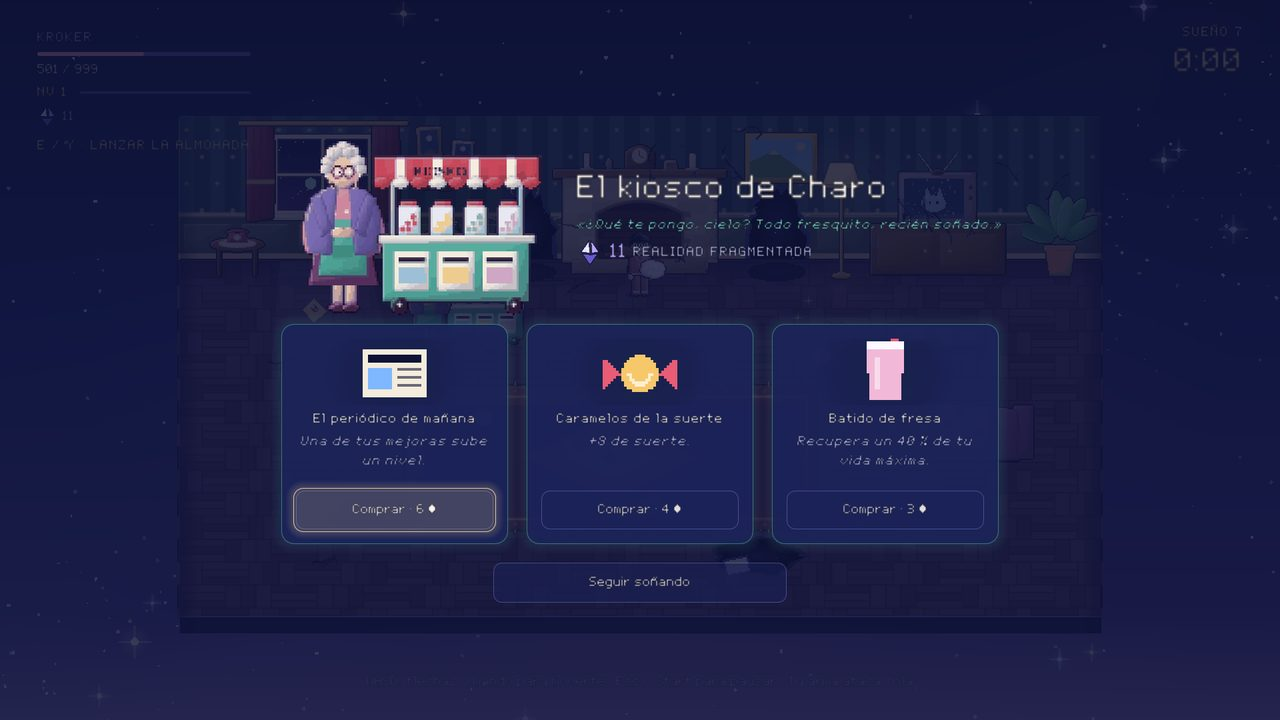
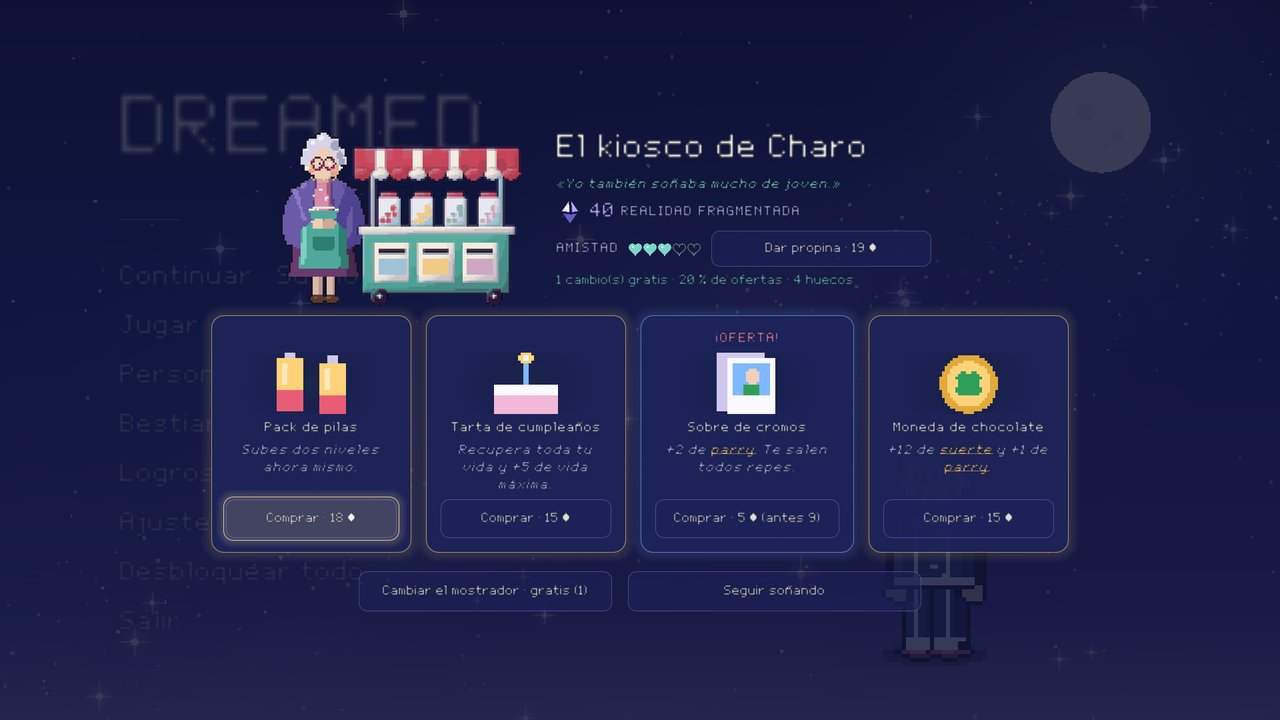
README actualizado: ocho pijamas (pelota y portátil), Acto 3 completo con el Ovni, Magnus, kiosco por actos, parry, eventos, demo y capturas nuevas
Claude-Session: https://claude.ai/code/session_01GdGrTqZ9MwK91drfN3VgwU

diff --git a/README.md b/README.md
@@ -9,7 +9,7 @@ Kroker es un niño con gafas y pelo negro que se queda dormido... y cada oleada 
 
 - **Motor:** Godot 4.7, probado en **Godot 4.7.2**.
 - **Idiomas:** español e inglés, que se cambian en Ajustes.
-- **Controles:** teclado, ratón y mando.
+- **Controles:** teclado, ratón y mando. Los textos de controles cambian solos según uses teclado o mando.
 - **Arte y sonido:** todo hecho con código, desde los sprites y la fuente hasta la música y los efectos (ver [Herramientas](#herramientas)).
 
 ---
@@ -29,8 +29,10 @@ Kroker es un niño con gafas y pelo negro que se queda dormido... y cada oleada 
 |---|---|---|
 | Moverse | WASD o flechas | Stick izquierdo o cruceta |
 | Modo especial (almohada de Svinho) | E | Y |
-| Avanzar diálogos | Intro, Espacio o clic | A |
+| Aceptar / avanzar diálogos | Intro, Espacio o clic | A |
+| Volver | Esc | B |
 | Pausa (con resumen de estadísticas y mejoras) | Esc | Start |
+| Ver más en una ficha que no cabe | Rueda del ratón | Stick derecho |
 
 El mando vibra al recibir golpes; se puede desactivar en *Ajustes → Accesibilidad*.
 
@@ -38,20 +40,32 @@ El mando vibra al recibir golpes; se puede desactivar en *Ajustes → Accesibili
 
 ## Los pijamas
 
-Siempre es Kroker, pero vestido distinto, y cada pijama trae su arma. Se empieza con cuatro; la pistola de dedos se desbloquea al llegar por primera vez al Acto 2 y el oso de peluche al llegar al Acto 3. Los bloqueados salen en silueta en la selección.
+Siempre es Kroker, pero vestido distinto, y cada pijama trae su arma. Se empieza con cuatro y otros cuatro se desbloquean jugando. En la selección salen en páginas de cuatro, con una flecha a cada lado; los bloqueados se ven en silueta, con cómo se consiguen. Cada carta tiene una ficha con sus valoraciones y todas sus bonificaciones de serie; si no caben, la ficha se desplaza (con la rueda o, con mando, sola y con el stick derecho).
 
 ![Selección de personaje](docs/screenshots/seleccion.jpg)
 
-| Pijama | Arma | Cómo ataca | Bonificación de serie |
-|---|---|---|---|
-| **El Bateador** | Bate | Golpe cuerpo a cuerpo al enemigo más cercano | +20 % de ataque y 3 de regeneración |
-| **El Guardián** | Escudo-almohada | Poco daño, pero empuja mucho en cono | +4 de defensa, +5 de vida máxima, 5 de regeneración y algo más lento |
-| **El Cuentacuentos** | Libro | Hace caer de 1 a 3 rayos del cielo; cada uno golpea a un enemigo | −15 de suerte, −5 de vida máxima y 5 % de robo de salud |
-| **El Barrepesadillas** | Aspiradora | Atrae al enemigo al que apunta mientras lo daña | +25 % de velocidad, +5 de vida máxima y 5 % de robo de salud |
-| **El Pistolero** | Pistola de dedos | Rayos láser con un efecto al azar: normal, atraviesa, empuja (puede tirarlos por los agujeros), crítico x1,75, rebota hacia otro enemigo... o sale hacia atrás. La suerte hace más probables los buenos | +10 de suerte y 5 % de robo de salud |
-| **El Abrazaosos** | Oso de peluche | Le arranca pelusa al osito y se la pega al enemigo: daño moderado y cada pelusa lo frena (dura 8 s). Los enemigos con pelusa que se tocan se quedan pegados y las bolas van creciendo, cada vez más lentas; una bola de 5 se aplasta y mueren todos | +6 de vida máxima y 3 de regeneración |
+| Pijama | Arma | Cómo ataca | De serie | Cómo se desbloquea |
+|---|---|---|---|---|
+| **El Bateador** | Bate | Golpe cuerpo a cuerpo al enemigo más cercano | +20 % de daño y 3 de regeneración | Desde el principio |
+| **El Guardián** | Escudo-almohada | Poco daño, pero empuja mucho en cono | +4 de defensa, +5 de vida máxima, 2 de regeneración y algo más lento | Desde el principio |
+| **El Cuentacuentos** | Libro | Hace caer de 1 a 3 rayos del cielo; cada uno golpea a un enemigo | −5 de vida máxima, −15 de suerte y 5 % de robo de salud | Desde el principio |
+| **El Barrepesadillas** | Aspiradora | Atrae al enemigo al que apunta mientras lo daña. Si está a media vida o menos y lo arrastras por un agujero, se cae | +25 % de velocidad, +5 de vida máxima y 5 % de robo de salud | Desde el principio |
+| **El Pistolero** | Pistola de dedos | Rayos láser con un efecto al azar: normal, atraviesa, empuja, crítico x1,75, rebota... o sale hacia atrás. La suerte hace más probables los buenos | +10 de suerte y 5 % de robo de salud | Llegar al Acto 2 |
+| **El Abrazaosos** | Oso de peluche | Le arranca pelusa al osito y se la pega al enemigo: cada pelusa lo frena, los que se tocan se quedan pegados y una bola de 5 se aplasta | +6 de vida máxima y 3 de regeneración | Llegar al Acto 3 |
+| **El Crack** | Pelota | La chuta al enemigo más cercano (poco alcance); rebota de uno a otro y vuelve. Mientras está en el aire no puede chutar otra | +15 % de daño, +20 % de velocidad, +6 de parry, −2 de defensa y −10 de suerte. Empieza con la mejora de Svinho a nivel 3 | Amistad 4 con Svinho |
+| **El Ingeniero** | Portátil | Pone torretas que disparan solas y no desaparecen (ver abajo) | +3 de vida máxima, +5 de suerte y −15 % de velocidad de ataque | Amistad 4 con Silly |
 
-Cada pijama tiene un **post-it** con los actos que has superado con él (Acto I y Acto II; estrella en normal, luna en pesadilla), al estilo de *The Binding of Isaac*. Todo lo que tiene tiempo de recarga muestra un anillo de carga en la propia arma, como la stamina de *Zelda*.
+Cada pijama tiene un **post-it** con los actos que has superado con él (Actos I, II y III; estrella en normal, luna en pesadilla), al estilo de *The Binding of Isaac*. Superar un acto en pesadilla también marca el normal. Todo lo que tiene tiempo de recarga muestra un anillo de carga en la propia arma, como la stamina de *Zelda*.
+
+### Las torretas del Portátil
+
+- Como mucho hay **3 torretas de disparo** (más con Silly). Salen de tarde en tarde y, una vez puestas, se quedan; si una se queda muy lejos en el pasillo infinito, Kroker la recoloca.
+- **Suben de nivel con el Ataque de Kroker**, también las que ya están puestas: nivel 2 con un 10 % (queman), 3 con un 25 % (empujan) y 4 con un 45 % (hacen sangrar). Cada nivel tiene un modelo más futurista; la de nivel 4 flota.
+- Algunas mejoras traen **torretas especiales**, una de cada, que aparecen solas al empezar el sueño en sitios al azar y separadas (cerca de ellas no se pueden poner torretas de disparo):
+  - **Doc:** torreta curativa que te dispara balas curativas si te falta vida.
+  - **Stolk:** muñeco de boxeo que atrae a los enemigos cercanos y les da puñetazos con mucho empuje.
+  - **Mr. Ad:** torreta dorada que apunta al enemigo con menos vida y remata a los que tienen menos del 15 %; cada remate da Realidad Fragmentada.
+  - **El Pinche:** fogón que atrae enemigos y, si se juntan muchos a su lado, explota; al rato vuelve a aparecer.
 
 ---
 
@@ -94,21 +108,38 @@ Con menos de la mitad de vida se enfada: ataca más a menudo y lanza más cosas.
 El resto del salón:
 
 - **Kioskera Charo** (*Karen* en inglés): la primera vez que llegas, te da la bienvenida y te explica dónde estás. De vez en cuando abre su kiosco para venderte cosas a cambio de **Realidad Fragmentada**. Una vez la conoces, también aparece tras el sueño 3 del Acto 1.
-- **Realidad Fragmentada:** la moneda de Charo. Sale de lo que más guerra da y de lo que se cae y no vuelve... Una vez conoces a Charo, también se gana en el Acto 1 de las partidas siguientes. Tirar enemigos por los agujeros solo la da a veces (casi nunca durante un jefe), y los precios del kiosco van de 5 a 12 ◆.
+- **Realidad Fragmentada:** la moneda de Charo. Sale de lo que más guerra da y de lo que se cae y no vuelve... Una vez conoces a Charo, también se gana en el Acto 1 de las partidas siguientes. Tirar enemigos por los agujeros solo la da a veces (casi nunca durante un jefe).
+- **El kiosco** tiene 16 artículos y mejora con cada acto: en el Acto 1 vende cosas flojas y baratas (4–5 ◆), en el 2 cosas medias (7–12 ◆) y en el 3 las mejores y más caras (14–24 ◆), como la tarta de cumpleaños (+5 de vida máxima), el pack de pilas (dos niveles) o el periódico del domingo (dos mejoras suben de nivel). Se puede pagar por **cambiar el mostrador**; los artículos ya comprados se quedan.
 - **En la pausa** se ve lo que has comprado en el kiosco, con cuántos de cada (por ejemplo, *Pila del despertador x2*).
 - **La chimenea:** en algunos sueños está encendida. Quédate delante y podrás echar una de tus mejoras al fuego: pierde un nivel, pero ganas Realidad Fragmentada.
 
 ![El kiosco de Charo](docs/screenshots/kiosco.jpg)
 
-### Segunda arma y Acto 3 (provisional, sueños 11–13)
+### Segunda arma
 
-Al vencer a El Chef eliges una **segunda arma**, siempre del otro tipo: si tu pijama lleva un arma cuerpo a cuerpo (bate, almohada u oso), eliges una a distancia (libro, aspiradora o pistola de dedos), y al revés. Solo salen las que ya tengas desbloqueadas. Kroker lleva la segunda arma en la mano libre (la almohada y el oso van en la izquierda; el resto, en la derecha), ataca sola y tiene **sus propias mejoras**. En el plano astral, cada don tiene una pestaña por arma para decidir a cuál va.
+Al vencer a El Chef eliges una **segunda arma**, siempre del otro tipo: si tu pijama lleva un arma cuerpo a cuerpo (bate, almohada u oso), eliges una a distancia (libro, aspiradora, pistola de dedos, pelota o portátil), y al revés. Solo salen las que ya tengas desbloqueadas. Kroker lleva la segunda arma en la mano libre, ataca sola y tiene **sus propias mejoras**. En el plano astral, cada don tiene una pestaña por arma para decidir a cuál va.
 
-El Acto 3 es por ahora un escenario **en obras**, pensado para probar las dos armas. La partida termina al acabar el sueño 13.
+### Acto 3: el pasillo del colegio (sueños 11–15)
+
+![El pasillo del colegio](docs/screenshots/pasillo.jpg)
+
+Un pasillo **infinito** hacia los lados, al estilo de la biblioteca de *Vampire Survivors*: la cámara sigue a Kroker entre taquillas, puertas de clase, baños, fuentes y vitrinas, todo con luz de anochecer. Las puertas se rompen y sirven de boquete para tirar enemigos.
+
+| Sueño | Novedad |
+|---|---|
+| 11 | **Marionetas**: cada una sale con un brazo distinto: cuchilla (te hace sangrar), barra eléctrica (te paraliza) o arcabuz (bala potente, la marioneta sale despedida hacia atrás) |
+| 13 | **Gólem de papel higiénico**: lento, con mucha vida y poca defensa. Si te pega, te deja **mal olor**: una de tus dos armas deja de atacar un rato |
+| 14 | Kiosco de Charo |
+| 15 | **Jefe: el Ovni** |
+
+**El Ovni** pasa por el pasillo dando tumbos y lo destroza: quema las paredes, dispara láseres, abre agujeros en el suelo con su rayo y deja caer enemigos. Mientras vuela no se le puede dar; cada cierto tiempo se estrella justo donde está Kroker (con aviso en el suelo) y ahí sí, pero en el suelo suelta anillos de láseres con un hueco para esquivar. A media vida se enfada: más láseres, dos rayos a la vez y más enemigos. Al vencerlo se acaba la partida.
 
 ### Jefes con tiempo límite
 
-Los jefes tienen cuenta atrás: 2:30 los muebles del Acto 1 y 2:00 El Chef. Si aguantas hasta el final, el jefe se retira y pasas igualmente. Si lo derrotas antes, te llevas **un nivel de regalo**.
+Los jefes tienen cuenta atrás: 2:30 los muebles del Acto 1, 2:00 El Chef y 2:30 el Ovni. Si aguantas hasta el final, el jefe se retira y pasas igualmente. Si lo derrotas antes, te llevas **un nivel de regalo**.
+
+- **La habitación despierta:** los muebles van uno detrás de otro y se mueven todo el rato. El baúl huye a ratos y luego se para, cansado y sudando: es el momento de pegarle.
+- Todos los jefes son un 25 % más duros (atacan más a menudo y pegan más) en las dos dificultades.
 
 ### Eventos
 
@@ -116,13 +147,15 @@ Desde el sueño 2, algunos sueños traen un evento al azar:
 
 - **Apagón:** solo ves alrededor de Kroker y, si la chimenea está encendida, alrededor del fuego.
 - **Suelo inclinado:** todo resbala hacia un lado y luego hacia otro.
-- **Foox dorado:** no hace daño y huye. Si lo pillas antes de que se esfume, te llueven estrellas.
+- **Timbre del colegio** (solo en el Acto 3, el más probable allí): avisa de que va a sonar, suena y durante un rato sale un montón de enemigos de las puertas.
+
+Además, muy de vez en cuando aparece un **Foox dorado**: no hace daño y huye. Si lo pillas antes de que se esfume, te llueven estrellas.
 
 ![Apagón con la chimenea encendida](docs/screenshots/apagon.jpg)
 
 ### Élites
 
-Son enemigos demoníacos, con cuernos, más grandes y con el triple de vida. El color del contorno dice qué hacen:
+Son enemigos demoníacos, con cuernos, un contorno que late, ascuas que suben y el triple de vida. El color del contorno dice qué hacen:
 
 - **Naranja:** al morir se parten en dos Foox.
 - **Azul:** dejan charcos que te frenan.
@@ -134,7 +167,7 @@ Son enemigos demoníacos, con cuernos, más grandes y con el triple de vida. El 
 
 ### Plano astral
 
-Entre un sueño y otro aparecen dos de estos personajes (tres desde el nivel 3 de Kroker). Cada uno da un tipo de mejora que cambia según tu arma y que sube hasta el nivel 3. Al elegir, te quedas a solas con él y te habla.
+Entre un sueño y otro aparecen dos de estos personajes (tres desde el nivel 3 de Kroker). Cada uno da un tipo de mejora que cambia según tu arma y que sube hasta el nivel 3. Al elegir, te quedas a solas con él y te habla. Las palabras que hay que explicar (sangrado, suerte, parry...) salen resaltadas: pasa el ratón por encima, o selecciónalas con el mando, y sale una tarjeta que las explica.
 
 | Personaje | Quién es | Tipo de mejora |
 |---|---|---|
@@ -144,6 +177,9 @@ Entre un sueño y otro aparecen dos de estos personajes (tres desde el nivel 3 d
 | **Doc** | Un doctor | Más vida máxima a cambio de empeorar otra estadística |
 | **Mr. Ad** | Un humanoide cubierto de anuncios de chocolatinas y comida basura | Más Realidad Fragmentada y una estadística que sube cuanta más tengas ahorrada. Se desbloquea al llegar por primera vez al Acto 2 (con un logro) y desde entonces puede salir desde el principio |
 | **El Pinche** | El aprendiz de El Chef, con gorro de papel, cuchillo y soplete | Sangrado (daño residual fuerte) o quemadura (daño residual flojo, pero el enemigo hace menos daño y recibe más), según el arma. Se desbloquea al llegar por primera vez al Acto 3 |
+| **Magnus** | Un magnate de los negocios detrás de su escritorio | **Inversiones**: le pagas Realidad Fragmentada y te sube varias estadísticas al momento, con un objetivo para el siguiente sueño (derrotar enemigos, tirarlos por agujeros, derrotar élites o no recibir muchos golpes). Si lo cumples, te las quedas y te devuelve más dinero; si no, te las quita y se queda el dinero. Se desbloquea al superar el Acto 3 |
+
+![Magnus en el plano astral](docs/screenshots/magnus.jpg)
 
 ![Plano astral](docs/screenshots/plano-astral.jpg)
 
@@ -154,14 +190,19 @@ La amistad con cada personaje se guarda entre partidas y llega hasta el nivel 5.
 - **Propina:** desde la segunda vez, en la charla puedes darle propina con Realidad Fragmentada (10 ◆ para el nivel 1, 13 para el 2, 16, 19 y 22). Solo una por personaje y partida. Al dársela te da las gracias; lo nuevo que tenga que contarte lo dirá la próxima vez que lo veas.
 - **Mejores dones:** cada nivel de amistad mejora sus dones un 6 % (hasta un 30 %); en los de Doc, lo que empeora pesa menos y las recargas bajan.
 - **Conversaciones:** cada personaje te cuenta algo distinto en cada nivel de amistad.
-- **Charo:** en el kiosco también se le puede dar propina, una por partida. Cada nivel rebaja los precios un 6 % y cambia lo que te dice al saludarte.
+- **Charo:** en el kiosco también se le puede dar propina, una por partida. Su amistad no baja precios: da cambios gratis del mostrador (1 desde amistad 1 y 2 desde amistad 4), ofertas a mitad de precio (desde amistad 2) y más huecos (4 con amistad 3 y 5 con amistad 5). También cambia lo que te dice al saludarte.
+- **Magnus:** con más amistad, sus tratos devuelven más dinero.
+- **Pijamas nuevos:** la amistad 4 con Svinho desbloquea la pelota y con Silly, el portátil.
 - **Dónde verla:** la amistad sale con corazones en el menú Personajes, en las cartas del plano astral y en el kiosco.
 
 ### Niveles
 
 Los enemigos sueltan **trozos de estrella**; cuanto más duro es el enemigo, más sueltan. Al subir de nivel eliges 1 de 3 mejoras de estadística, cada una con su rareza: común, poco común, rara, épica o legendaria.
 
-Las estadísticas son ataque, defensa, velocidad, velocidad de ataque, alcance, recuperación de salud, robo de salud y suerte. La **suerte** hace más probables las rarezas altas, los consumibles y que vuelvan los personajes que ya te dieron un don. Puedes cambiar las tres opciones a cambio de 2 de suerte.
+Las estadísticas son ataque, defensa, velocidad, velocidad de ataque, alcance, recuperación de salud, robo de salud, suerte y parry.
+
+- La **suerte** hace más probables las rarezas altas, los consumibles y que vuelvan los personajes que ya te dieron un don. Puedes cambiar las tres opciones a cambio de 2 de suerte.
+- El **parry** es una probabilidad de esquivar un golpe: Kroker chasquea los dedos y el que le iba a pegar, y hasta 3 enemigos de alrededor, caen fulminados (a los jefes solo les hace daño). Nunca pasa del 20 %.
 
 ### Consumibles
 
@@ -171,19 +212,19 @@ A veces un enemigo suelta un objeto, y la suerte hace que pase más a menudo:
 - **Almohada:** para el siguiente golpe.
 - **Despertador:** congela a todos los enemigos.
 
-### La vida
+### La vida y los estados
 
-La vida no se rellena entre sueños: solo recuperas un 5 % de la vida máxima.
+La vida no se rellena entre sueños: solo recuperas un 5 % de la vida máxima. Debajo de la vida, un indicador muestra los estados alterados que tienes en cada momento (sangrado, paralizado, mal olor, hackeado...). La hitbox de Kroker es solo el cuerpo: la cabeza no cuenta.
 
 ---
 
 ## Más
 
 - **Dificultad Pesadilla:** se desbloquea al superar el Acto 1. Los enemigos tienen más vida y más daño, y salen más élites. En el jefe, los tres muebles atacan a la vez, aunque más despacio.
-- **Personajes:** menú con Kroker y sus pijamas, los personajes del plano astral (Mr. Ad y El Pinche incluidos) y Charo. Cada uno se desbloquea al conocerlo.
+- **Personajes:** menú con Kroker y sus pijamas, los personajes del plano astral (Mr. Ad, El Pinche y Magnus incluidos) y Charo. Cada uno se desbloquea al conocerlo.
 - **Desbloquear todo:** botón del menú principal (hay que pulsarlo dos veces) que desbloquea logros, pijamas, personajes, bestiario y la dificultad pesadilla.
 - **Bestiario:** está en el menú principal y cada entrada está escrita con la voz de Kroker.
-- **Logros:** hay 21 (entre ellos, vencer a El Chef, comprar en el kiosco, sacrificar en la chimenea y ahorrar 100 de Realidad Fragmentada). Algunos pegan un dibujo infantil nuevo en la pared de la habitación.
+- **Logros:** hay 24 (entre ellos, vencer a El Chef, comprar en el kiosco, sacrificar en la chimenea, ahorrar 100 de Realidad Fragmentada y desbloquear la pelota, el portátil y a Magnus). Algunos pegan un dibujo infantil nuevo en la pared de la habitación.
 - **Accesibilidad:**
   - intensidad de la sacudida de pantalla;
   - avisos para daltónicos;
@@ -195,7 +236,7 @@ La vida no se rellena entre sueños: solo recuperas un 5 % de la vida máxima.
 
 ### Modo Dios (para probar)
 
-Se activa con el botón **Modo Dios** de la selección de personaje. Permite empezar en cualquier sueño (1–13), elegir una segunda arma y poner las mejoras de cada arma y las estadísticas que quieras. Desde el sueño 11, si no eliges segunda arma, se pone una de prueba. Las partidas en Modo Dios no se guardan. Si empiezas en el Acto 2, traes 30 ◆ para probar el kiosco.
+Se activa con el botón **Modo Dios** de la selección de personaje. Permite empezar en cualquier sueño (1–15), elegir una segunda arma y poner las mejoras de cada arma y las estadísticas que quieras. Desde el sueño 11, si no eliges segunda arma, se pone una de prueba. Las partidas en Modo Dios no se guardan. Si empiezas en el Acto 2, traes 30 ◆ para probar el kiosco.
 
 Teclas durante la partida:
 
@@ -206,6 +247,16 @@ Teclas durante la partida:
 | **K** | Borra los enemigos |
 | **L** | Sube de nivel |
 
+### Demo
+
+Hay tres exportaciones de demo (Windows, Linux y macOS) en `export_presets.cfg`. La demo se activa con la etiqueta de característica `demo` (o, para probarla en el editor, con *Ajustes del proyecto → dreamed/demo*). En la demo:
+
+- no salen el Modo Dios ni los botones de desbloquear bestiario y personajes;
+- **sí** está el botón «Desbloquear todo» del menú principal;
+- el guardado va en archivos aparte (`*_demo.cfg`), para no mezclarse con el de las pruebas.
+
+Para hacer una demo nueva basta con volver a exportar con esos presets.
+
 ---
 
 ## Estructura del proyecto
@@ -213,8 +264,8 @@ Teclas durante la partida:
 ```
 scenes/                 escenas principales (menú, selección, partida, plano astral, ajustes)
 scripts/autoload/       I18n (textos ES/EN), Settings, GameState (datos y reglas), Progress (guardado y logros), Audio
-scripts/game/           la partida: run.gd, bedroom.gd, living_room.gd, Kroker, enemigos, armas, jefe, HUD, efectos
-scripts/ui/             menús, bestiario, logros, subida de nivel, plano astral, Charo y su kiosco, chimenea
+scripts/game/           la partida: run.gd, bedroom.gd, living_room.gd, act3_room.gd, Kroker, enemigos, armas, jefes, HUD, efectos
+scripts/ui/             menús, bestiario, logros, subida de nivel, plano astral, Charo y su kiosco, chimenea, tarjetas de palabras clave
 scripts/visual/         dibujo de los sprites (Sprites, SpriteRects), Kroker, personajes y PixelView
 assets/sprites/         sprites en pixel art (generados)
 assets/audio/           música (.ogg) y efectos (.wav) (generados)
@@ -230,7 +281,10 @@ docs/screenshots/       capturas de este README
 - **Estadísticas base:** `GameState.BASE_STATS` y `GameState.BASE_LEVEL_STATS`.
 - **Mejoras por nivel:** `GameState.UPGRADE_VALUES`.
 - **Subidas de nivel y rarezas:** `GameState.STAT_STEPS` y `GameState.RARITY_WEIGHT`.
-- **Kiosco y moneda:** `GameState.WARES` y `GameState.REALITY_*`.
+- **Kiosco y moneda:** `GameState.WARES` (nivel y precio de cada artículo), `GameState.WARE_TIER_WEIGHT` y `GameState.REALITY_*`.
+- **Dureza de los jefes:** `GameState.BOSS_POWER` (un solo multiplicador para todos).
+- **Tratos de Magnus:** `GameState.INVEST_SIZES` y `GameState.INVEST_GOALS`.
+- **Tope del parry:** `GameState.PARRY_MAX`.
 - **Daño, alcance y recarga de cada arma:** las constantes al principio de `scripts/game/weapon_*.gd`.
 - **Textos:** `scripts/autoload/i18n.gd`, con cada clave en `es` y `en`.
 
@@ -274,10 +328,12 @@ El informe queda en `user://balance_report.json`.
 **Dreamed** is a Brotato-style survival roguelite with Hades-style upgrades, made in Godot 4.7 (tested on 4.7.2), fully playable in **English and Spanish**.
 
 - **Kroker:** a boy with glasses who falls asleep. Every wave is a dream inside the previous one, each stranger than the last.
-- **Weapons:** pick a pajama, each with its own auto-attacking weapon: bat, pillow shield, storybook (lightning from the sky) or vacuum, plus two you unlock: a finger gun (Act 2; lasers that randomly pierce, push, crit, bounce or backfire) and a teddy bear (Act 3; sticky fluff that slows enemies and glues them together).
-- **Act 1, the bedroom:** Foox, thugs, slingshots and skeletons, then a living-furniture boss.
-- **Act 2, the living room:** mosquito nests, hacking Cyberpunks, a fireplace where you can sacrifice upgrades, *Karen the kiosk lady*, who trades in **Fragmented Reality**, and **The Chef**: a grown-up Kroker who climbs out of the TV throwing knives (bleeding), plates (shards on the floor) and swinging a frying pan (it roots you).
-- **Second weapon:** after The Chef you pick a second weapon of the other kind (melee or ranged). Kroker holds it in his free hand and it has its own upgrades; Act 3 is a placeholder stage to try it out.
-- **Upgrades:** between dreams, on the astral plane, Svinho, Stolk, Silly, Doc, Mr. Ad (unlocked in Act 2, all about Fragmented Reality) and the Kitchen Boy (unlocked in Act 3, bleeding and burning) each offer a different kind of upgrade; from Kroker's level 3 three of them show up. Star shards level Kroker up with stat boosts from common to legendary.
-- **Extras:** Nightmare difficulty, a bestiary, 21 achievements, accessibility options, full gamepad support and a God mode for testing.
+- **Eight pajamas, eight auto-attacking weapons:** bat, pillow shield, storybook (lightning from the sky) and vacuum from the start; a finger gun (Act 2) and a teddy bear (Act 3) unlocked by playing; a bouncing football (friendship 4 with Svinho) and a laptop that places permanent turrets which level up with your attack (friendship 4 with Silly). The character select shows them in pages of four, each card with a full stat sheet.
+- **Act 1, the bedroom:** Foox, thugs, slingshots and skeletons, then the living furniture: a bed, a bookshelf and a toy chest that runs away and gets tired.
+- **Act 2, the living room:** mosquito nests, hacking Cyberpunks, a fireplace where you can sacrifice upgrades, *Karen the kiosk lady*, who trades in **Fragmented Reality**, and **The Chef**, a grown-up Kroker who climbs out of the TV.
+- **Act 3, the endless school hallway at dusk:** puppets with random weapons, toilet-paper golems whose stench disables one of your weapons, a school-bell event, and **the UFO**, which wrecks the hallway, crashes down on you and fires rings of lasers.
+- **Second weapon:** after The Chef you pick a second weapon of the other kind (melee or ranged), with its own upgrades.
+- **Upgrades:** on the astral plane, Svinho, Stolk, Silly, Doc, Mr. Ad, the Kitchen Boy and **Magnus** (a magnate who lets you invest: pay for several stat boosts and keep them, with interest, if you meet his goal) each offer a different kind of upgrade. Star shards level Kroker up with stat boosts from common to legendary, including **parry**: a chance to dodge a hit and finger-snap the attacker and nearby enemies away.
+- **Karen's kiosk** sells better and pricier items each act; friendship with her gives free restocks, half-price offers and more slots.
+- **Extras:** Nightmare difficulty, a bestiary, 24 achievements, hover cards that explain keywords and status effects, accessibility options, full gamepad support (the UI adapts to keyboard or gamepad), a God mode for testing and demo builds for Windows, Linux and macOS.
 - **Running it:** open `project.godot` and press **F5**. All sprites, sounds and the font are generated by the scripts in `tools/`.
